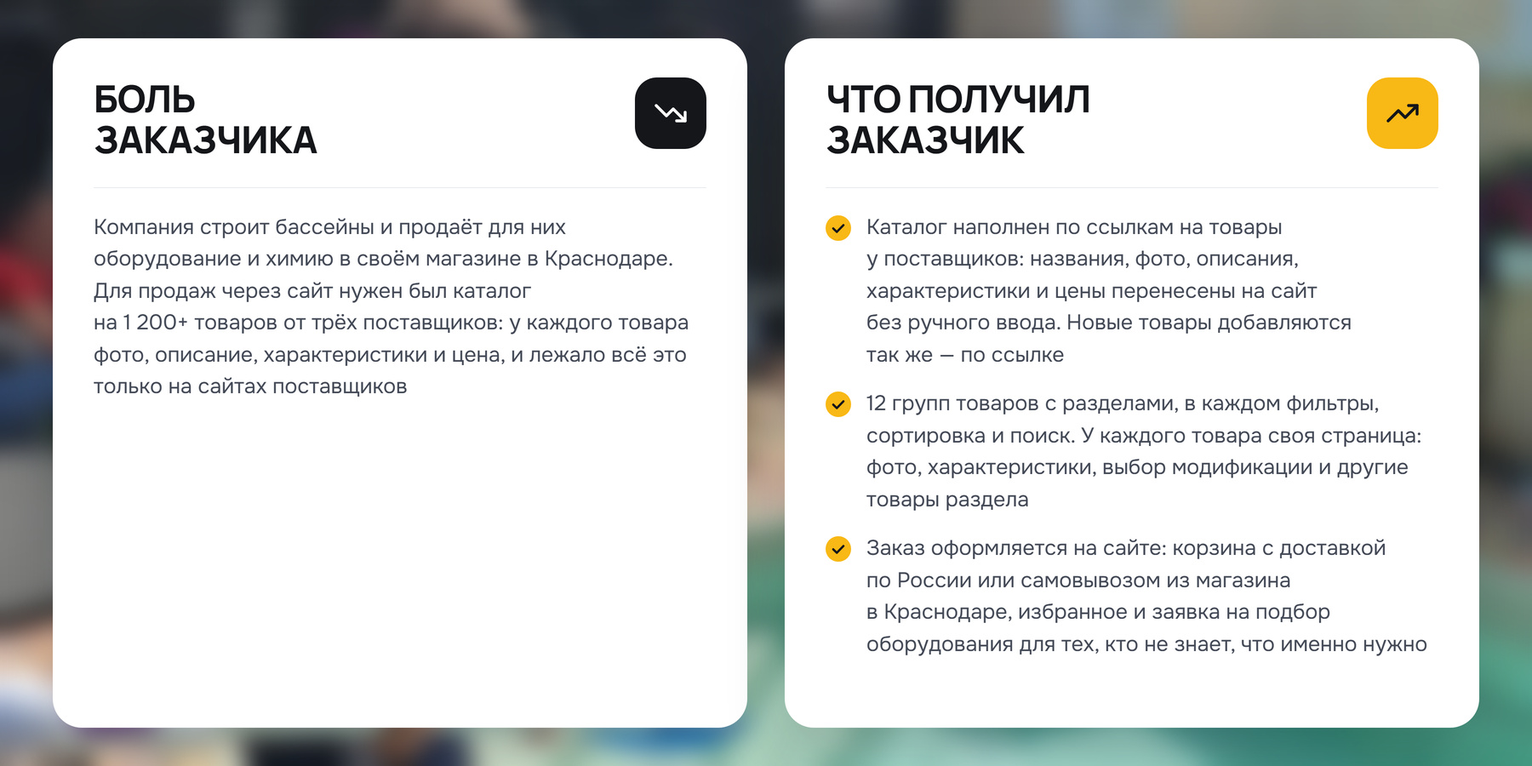
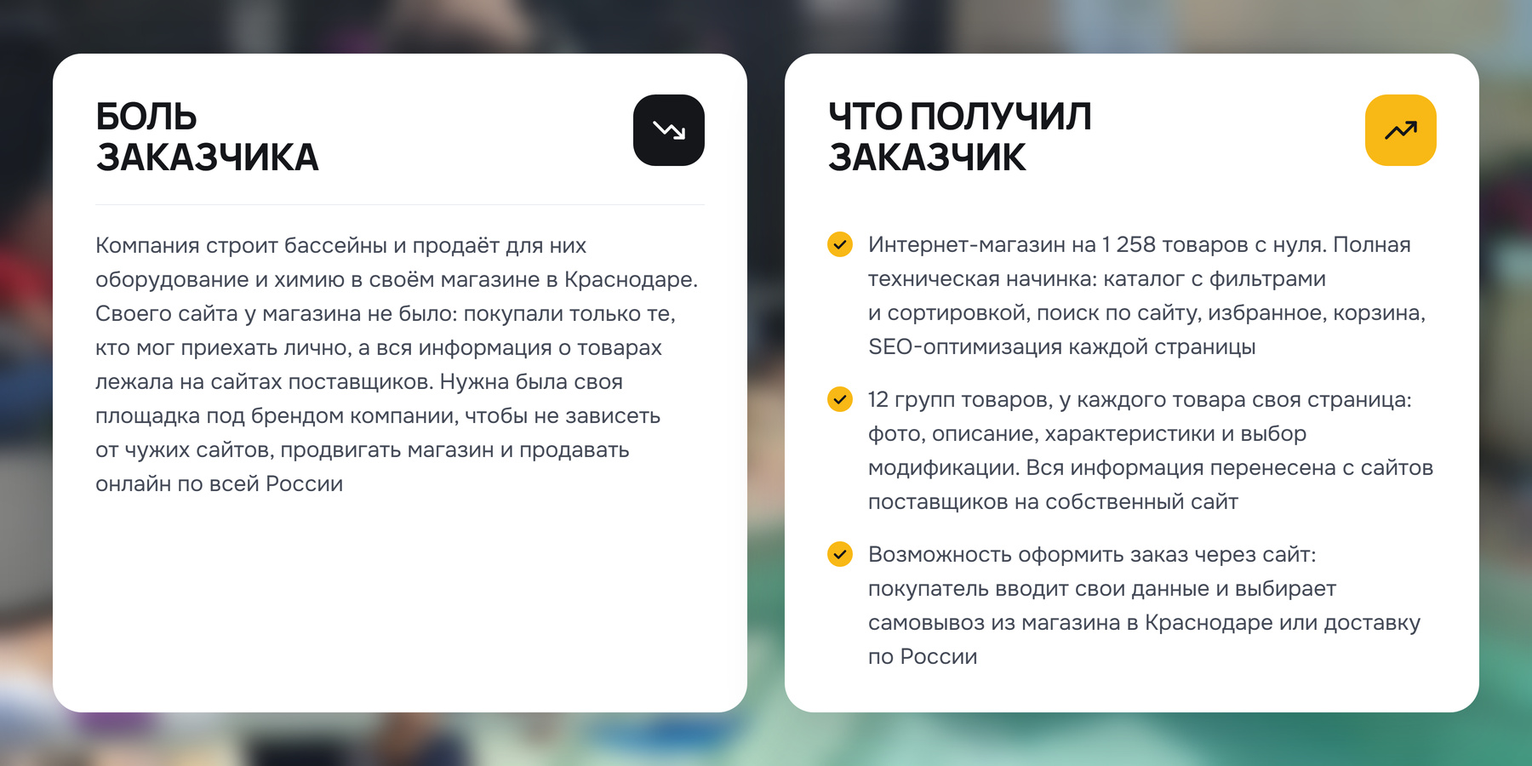
Профи.ру: альбом 19 — правки по разбору 07.10
Кадр 2: «Боль» и «Что получил» переписаны (сайта у магазина не было,
интернет-магазин на 1 258 товаров с нуля). Кадр 7: в подвал возвращена
строка разработчика текстом. Страница правок pokaz-19/pravki.html —
только доработанное, «было / стало».

diff --git a/profi-albums-7c1a37/pokaz-19/pravki.html b/profi-albums-7c1a37/pokaz-19/pravki.html
@@ -1,0 +1,83 @@
+<!doctype html><html lang="ru"><meta charset="utf-8">
+<meta name="viewport" content="width=device-width,initial-scale=1"><meta name="robots" content="noindex">
+<title>Альбом 19: правки по разбору — Профи.ру</title>
+<style>
+body{margin:0;background:#12141a;color:#e9ecf2;font:16px/1.55 -apple-system,Segoe UI,Roboto,sans-serif}
+header,section{max-width:1100px;margin:0 auto;padding:18px 14px}
+h1{font-size:24px;line-height:1.25;margin:6px 0} h2{font-size:20px;line-height:1.3;margin:10px 0 4px}
+.dim{color:#8b93a5;font-size:14px}
+.box{background:#1b1e26;border-radius:12px;padding:8px 18px 12px;margin-top:14px}
+.box h3{font-size:16px;margin:12px 0 6px} li{margin:7px 0} a{color:#F8B815} b{color:#fff}
+ol,ul{padding-left:22px}
+figure{margin:14px 0 0;background:#1b1e26;border-radius:12px;overflow:hidden}
+figcaption{padding:10px 14px;font-weight:600} figure img{display:block;width:100%;height:auto}
+.tag{display:inline-block;font-size:12px;font-weight:700;letter-spacing:.04em;text-transform:uppercase;border-radius:99px;padding:2px 10px;margin-right:8px}
+.new{background:#F8B815;color:#12141a} .old{background:#2a2e39;color:#aeb5c4}
+details{background:#1b1e26;border-radius:12px;padding:10px 16px;margin-top:14px}
+summary{cursor:pointer;font-weight:600;color:#aeb5c4} details p,details li{color:#aeb5c4}
+</style>
+<header>
+<h1>Альбом 19, магазин Gerzpools: правки по&nbsp;твоему разбору</h1>
+<p class="dim">07.10 · здесь только доработанное — кадр 2 и&nbsp;подвал кадра 7. Обложка и&nbsp;кадры 3–6 не&nbsp;менялись: это те&nbsp;же файлы, что ты уже смотрел.</p>
+<div class="box">
+<h3>Что нужно от тебя</h3>
+<ol>
+<li><b>Вычитать кадр 2</b> — он ниже в&nbsp;готовом виде. Правки словами внесу и&nbsp;пересоберу.</li>
+<li><b>Бриф по&nbsp;магазину на&nbsp;компьютере не&nbsp;нашёл.</b> Ни&nbsp;файла брифа, ни&nbsp;записи созвона за&nbsp;июнь–июль 2023 нет: искал по&nbsp;имени и&nbsp;по&nbsp;датам в&nbsp;папке клиента, архиве агентства, «Загрузках» и&nbsp;на&nbsp;диске D. От&nbsp;магазина 2023 года лежат структура интернет-магазина (20.07.2023) и&nbsp;ТЗ к&nbsp;договору от&nbsp;04.07.2023 — запроса клиента словами в&nbsp;них нет. Поэтому «Боль» собрана с&nbsp;твоих слов. Если бриф лежит в&nbsp;другом месте — скажи где, сверю формулировку.</li>
+<li><b>Три решения принял сам — скажи, если не&nbsp;так:</b>
+<ul>
+<li>в&nbsp;«Что получил» стоит точное число — <b>1&nbsp;258 товаров</b> (столько в&nbsp;каталоге по&nbsp;сверке 06.10); на&nbsp;обложке осталось «1&nbsp;200+», как на&nbsp;самом сайте;</li>
+<li>заявка на&nbsp;подбор оборудования из&nbsp;третьего пункта ушла: пункт теперь только про оформление заказа, а&nbsp;блок подбора виден на&nbsp;кадре 7;</li>
+<li>строка «Разработка сайта — Никита Александров» стоит внизу правой колонки подвала. На&nbsp;сайте она под контактами; контакты из&nbsp;кадра сняты, и&nbsp;на&nbsp;прежнем месте строка висела&nbsp;бы одна посреди пустой колонки.</li>
+</ul></li>
+</ol>
+<p>«Ок» — выкладываю альбом на&nbsp;общую страницу (станет 19) и&nbsp;вношу его в&nbsp;анкету.</p>
+</div>
+</header>
+
+<section>
+<h2>1. Кадр 2 — «Боль заказчика» и&nbsp;«Что получил заказчик»</h2>
+<figure><figcaption><span class="tag new">Стало</span>Кадр 2 целиком</figcaption><img src="magazin-gerzpools/02.jpg?v=0710b" alt="Кадр 2: Боль заказчика и Что получил заказчик"></figure>
+<div class="box">
+<h3>Что изменил по твоим словам</h3>
+<ul>
+<li><b>«Боль».</b> Сайта у&nbsp;магазина не&nbsp;было — фраза «для продаж через сайт нужен был каталог» убрана. Теперь: покупали только те, кто мог приехать в&nbsp;магазин лично; вся информация о&nbsp;товарах лежала на&nbsp;сайтах поставщиков; нужна была своя площадка под брендом компании — не&nbsp;зависеть от&nbsp;чужих сайтов, продвигать магазин и&nbsp;продавать по&nbsp;всей России. Корзины, избранного и&nbsp;страниц товаров в&nbsp;«Боли» нет — они в&nbsp;результате.</li>
+<li><b>«Что получил», пункт 1.</b> Первым стоит то, чего не&nbsp;хватало: интернет-магазин на&nbsp;1&nbsp;258 товаров с&nbsp;нуля и&nbsp;вся техническая начинка одним списком — каталог с&nbsp;фильтрами и&nbsp;сортировкой, поиск по&nbsp;сайту, избранное, корзина, SEO-оптимизация каждой страницы. «Без ручного ввода» и&nbsp;«по&nbsp;ссылке» убраны.</li>
+<li><b>Пункт 2.</b> 12 групп товаров, своя страница у&nbsp;каждого товара и&nbsp;что на&nbsp;ней стоит. Информация перенесена с&nbsp;сайтов поставщиков на&nbsp;собственный сайт — это ответ на&nbsp;«Боль».</li>
+<li><b>Пункт 3.</b> Вместо «заказ оформляется на&nbsp;сайте: корзина с&nbsp;доставкой по&nbsp;России» — «возможность оформить заказ через сайт»: покупатель вводит данные и&nbsp;выбирает самовывоз из&nbsp;магазина в&nbsp;Краснодаре или доставку по&nbsp;России. Корзина и&nbsp;избранное названы в&nbsp;первом пункте, здесь не&nbsp;повторяю.</li>
+</ul>
+</div>
+<details><summary>Как было — прежний текст кадра 2</summary>
+<p><b>Боль заказчика.</b> Компания строит бассейны и&nbsp;продаёт для них оборудование и&nbsp;химию в&nbsp;своём магазине в&nbsp;Краснодаре. Для продаж через сайт нужен был каталог на&nbsp;1&nbsp;200+ товаров от&nbsp;трёх поставщиков: у&nbsp;каждого товара фото, описание, характеристики и&nbsp;цена, и&nbsp;лежало всё это только на&nbsp;сайтах поставщиков.</p>
+<p><b>Что получил заказчик.</b></p>
+<ul>
+<li>Каталог наполнен по&nbsp;ссылкам на&nbsp;товары у&nbsp;поставщиков: названия, фото, описания, характеристики и&nbsp;цены перенесены на&nbsp;сайт без ручного ввода. Новые товары добавляются так&nbsp;же — по&nbsp;ссылке.</li>
+<li>12 групп товаров с&nbsp;разделами, в&nbsp;каждом фильтры, сортировка и&nbsp;поиск. У&nbsp;каждого товара своя страница: фото, характеристики, выбор модификации и&nbsp;другие товары раздела.</li>
+<li>Заказ оформляется на&nbsp;сайте: корзина с&nbsp;доставкой по&nbsp;России или самовывозом из&nbsp;магазина в&nbsp;Краснодаре, избранное и&nbsp;заявка на&nbsp;подбор оборудования для тех, кто не&nbsp;знает, что именно нужно.</li>
+</ul>
+</details>
+<details><summary>Откуда факты нового текста</summary>
+<ul>
+<li><b>1&nbsp;258 товаров</b> — журнал проекта Gerzpools: загрузка каталога 27.09, сверки 01.10 и&nbsp;06.10 без расхождений.</li>
+<li><b>SEO-оптимизация каждой страницы</b> — название и&nbsp;описание для поиска заведены у&nbsp;51 страницы сайта и&nbsp;у&nbsp;всех 1&nbsp;258 товаров (29.09).</li>
+<li><b>12 групп, фильтры, сортировка, поиск, избранное, корзина, самовывоз и&nbsp;доставка</b> — живой сайт, видно на&nbsp;кадрах 3, 5, 6 и&nbsp;7.</li>
+<li><b>Выбор модификации</b> есть у&nbsp;товаров с&nbsp;вариантами, не&nbsp;у&nbsp;каждого — в&nbsp;тексте он назван как часть страницы товара.</li>
+<li><b>Магазин в&nbsp;Краснодаре, доставка по&nbsp;регионам</b> — структура интернет-магазина от&nbsp;20.07.2023; карточки товаров, каталог, корзина, «избранное» и&nbsp;строка поиска — ТЗ к&nbsp;договору от&nbsp;04.07.2023.</li>
+</ul>
+</details>
+</section>
+
+<section>
+<h2>2. Кадр 7 — строка «Разработка сайта — Никита Александров»</h2>
+<p>Вернул, как ты сказал. В&nbsp;кадре это текст: адрес ссылки на&nbsp;Телеграм снят, контакта нет. Ниже — правый нижний угол подвала.</p>
+<figure><figcaption><span class="tag new">Стало</span>Подвал, кадр 7</figcaption><img src="pravki/podval-stalo.jpg" alt="Подвал после правки: строка разработчика внизу правой колонки"></figure>
+<figure><figcaption><span class="tag old">Было</span>Подвал, кадр 7</figcaption><img src="pravki/podval-bylo.jpg" alt="Подвал до правки: правая колонка пустая" loading="lazy"></figure>
+<p class="dim">Остальной кадр 7 не&nbsp;менялся: корзина, заявка на&nbsp;подбор и&nbsp;подвал остались в&nbsp;одном кадре, как ты решил.</p>
+</section>
+
+<section>
+<h2>Что не менялось и что проверено</h2>
+<p>Обложка и&nbsp;кадры 3–6 — те&nbsp;же файлы байт в&nbsp;байт; в&nbsp;кадре 7 изменилась только строка разработчика. <a href="./">Альбом целиком</a> — если захочешь пролистать все семь кадров подряд.</p>
+<p class="dim">Проверено: все гейты альбома зелёные (поля кадров, пилюли, ползунки, кромка, углы, экран обложки, размытие фона, слова); распознавание текста на&nbsp;кадрах 2 и&nbsp;7 контактов не&nbsp;нашло; текст кадра 2 лёг без висячих предлогов и&nbsp;разрывов слов, кегль 26 против 25 в&nbsp;прежней версии.</p>
+</section>
+</html>

diff --git a/profi-albums-7c1a37/pokaz-19/index.html b/profi-albums-7c1a37/pokaz-19/index.html
@@ -13,20 +13,13 @@ figcaption{padding:10px 12px;font-weight:600} figure img{display:block;width:100
 .intro{background:#1b1e26;border-radius:12px;padding:6px 16px 10px} .intro h3{font-size:16px;margin:14px 0 4px}
 .intro li{margin:4px 0} .intro a{color:#F8B815} .intro b{color:#fff}
 </style>
-<header><h1>Портфолио Профи.ру: 1 альбом, 7 фото</h1><p class="dim">Альбом 19, интернет-магазин Gerzpools — эталон на проверку. Тап по миниатюре — к кадру.</p><nav><a href="#magazin-gerzpools">Магазин Gerzpools</a></nav></header>
-<section class="intro"><h3>Что нужно от тебя</h3>
-<ol>
-<li><b>Вычитать тексты в готовом виде</b>: заголовок и метки на обложке — <a href="#magazin-gerzpools-1">1</a>, «Боль» и три пункта «Что получил» — <a href="#magazin-gerzpools-2">2</a>. Правки — словами, внесу и пересоберу.</li>
-<li><b>«Боль» — какой заход оставить.</b> Сейчас стоит «нужен был каталог на 1 200+ товаров, а лежало всё только на сайтах поставщиков». Запасной заход — «сайт магазина был, каталог в нём стоял пустым»: это правда и звучит сильнее, но сайт 2023 года делали мы же, поэтому сам его не ставлю. Оставляем как есть или меняем?</li>
-<li><b>Строка «Разработка сайта — Никита Александров» в подвале.</b> На сайте это ссылка на твой Телеграм, поэтому в кадре <a href="#magazin-gerzpools-7">7</a> она снята вместе с колонкой контактов. Могу вернуть её простым текстом: контакта в ней нет, а авторство подтверждает. Вернуть?</li>
-<li><b>Кадр <a href="#magazin-gerzpools-7">7</a> — корзина, а под ней заявка на подбор и подвал.</b> Это две страницы в одном кадре: корзина отдельно получается низкой, заявка с подвалом — тоже. Оставить вместе или корзину убрать, а подвал отдать кадру <a href="#magazin-gerzpools-4">4</a>?</li>
-</ol>
-<h3>Что в альбоме</h3>
+<header><h1>Портфолио Профи.ру: 1 альбом, 7 фото</h1><p class="dim">Альбом 19, магазин Gerzpools: с правками по разбору 07.10. Тап по миниатюре — к кадру.</p><nav><a href="#magazin-gerzpools">Магазин Gerzpools</a></nav></header>
+<section class="intro"><h3>Правки по твоему разбору 07.10 внесены</h3>
 <ul>
-<li><b>Обложка</b> — <a href="#magazin-gerzpools-1">1</a>: на ноутбуке главный экран магазина, на телефоне мобильная главная. Фон — фото монтажа чаши из блока «Собственный розничный магазин», не бассейн с главного экрана: бассейн уже стоит на обложке первого альбома Gerzpools, в ленте они должны различаться. Метки «Figma» нет: каталог, страница товара и фильтры собраны сразу в коде.</li>
-<li><b>Кадры</b> <a href="#magazin-gerzpools-3">3</a>–<a href="#magazin-gerzpools-7">7</a> сняты с живого сайта: главный экран и 12 групп каталога; магазин в Краснодаре и «О компании»; раздел «Насосы» с фильтрами, поиском и сортировкой; страница товара; корзина с формой заказа. Путь покупателя один: раздел «Насосы» → насос Aquaviva LX WEQ → он же в корзине.</li>
-<li><b>Что убрано ради правил площадки</b> (контакты и ссылки на фото запрещены): в шапке телефон, почта, адрес, режим работы и значки мессенджеров; в подвале колонка «Контакты»; в плашке главного экрана строка с адресом сайта; в блоке магазина адрес — ссылка «Посмотреть на карте» осталась рядом с меткой; в корзине вместо адреса самовывоза стоит «Самовывоз из магазина в Краснодаре». Убрано в самой странице до снимка, заплаток на кадрах нет. Все семь кадров перечитаны распознаванием текста — контактов не найдено.</li>
-<li><b>Шапка сайта</b> показана один раз, на кадре <a href="#magazin-gerzpools-3">3</a>; раздел и товар начинаются под ней — как в альбоме ANFISA. В разделе оставлены два ряда товаров и кнопка «Загрузить ещё».</li>
+<li><b>Только доработанное — на отдельной странице:</b> <a href="pravki.html">кадр 2 и подвал кадра 7, «было / стало»</a>. Здесь альбом целиком — в том виде, в каком он пойдёт в кабинет.</li>
+<li><b>Кадр <a href="#magazin-gerzpools-2">2</a></b> — «Боль» и «Что получил» переписаны: сайта у магазина не было, нужна была своя площадка для продаж по всей России; в «Что получил» первым стоит интернет-магазин на 1 258 товаров с нуля.</li>
+<li><b>Кадр <a href="#magazin-gerzpools-7">7</a></b> — в подвал возвращена строка «Разработка сайта — Никита Александров»: текстом, без адреса ссылки.</li>
+<li>Обложка и кадры 3–6 не менялись.</li>
 </ul>
 </section><section id="magazin-gerzpools"><h2>Магазин Gerzpools <span>7 фото</span></h2><p class="dim">Как в галерее Профи.ру:</p><div class="lenta"><a href="#magazin-gerzpools-1"><img src="magazin-gerzpools/01.jpg" loading="lazy"></a><a href="#magazin-gerzpools-2"><img src="magazin-gerzpools/02.jpg" loading="lazy"></a><a href="#magazin-gerzpools-3"><img src="magazin-gerzpools/03.jpg" loading="lazy"></a><a href="#magazin-gerzpools-4"><img src="magazin-gerzpools/04.jpg" loading="lazy"></a><a href="#magazin-gerzpools-5"><img src="magazin-gerzpools/05.jpg" loading="lazy"></a><a href="#magazin-gerzpools-6"><img src="magazin-gerzpools/06.jpg" loading="lazy"></a><a href="#magazin-gerzpools-7"><img src="magazin-gerzpools/07.jpg" loading="lazy"></a></div><figure id="magazin-gerzpools-1"><figcaption>1. обложка</figcaption><img src="magazin-gerzpools/01.jpg" loading="lazy"></figure><figure id="magazin-gerzpools-2"><figcaption>2. боль заказчика и что получил</figcaption><img src="magazin-gerzpools/02.jpg" loading="lazy"></figure><figure id="magazin-gerzpools-3"><figcaption>3. главный экран и каталог товаров</figcaption><img src="magazin-gerzpools/03.jpg" loading="lazy"></figure><figure id="magazin-gerzpools-4"><figcaption>4. магазин в Краснодаре и о компании</figcaption><img src="magazin-gerzpools/04.jpg" loading="lazy"></figure><figure id="magazin-gerzpools-5"><figcaption>5. раздел каталога с фильтрами</figcaption><img src="magazin-gerzpools/05.jpg" loading="lazy"></figure><figure id="magazin-gerzpools-6"><figcaption>6. страница товара</figcaption><img src="magazin-gerzpools/06.jpg" loading="lazy"></figure><figure id="magazin-gerzpools-7"><figcaption>7. корзина и оформление заказа, подбор оборудования и подвал</figcaption><img src="magazin-gerzpools/07.jpg" loading="lazy"></figure></section>
 </html>
